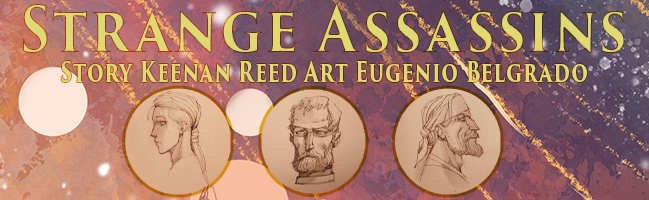
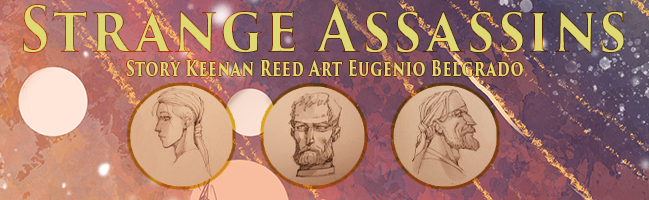
Small styling adjustments.

Changed region(s): [[0.0924, 0.3, 0.9245, 0.99]]

diff --git a/src/style/Banner.scss b/src/style/Banner.scss
@@ -5,5 +5,18 @@
   height: 200px;
   width: 649px;
   box-sizing: border-box;
-  border: 3px solid rgb(255, 136, 0);
+  border: 3px solid rgb(230, 213, 64, .5);
+  border-radius: 7px;
+}
+
+.BGIBig {
+  
+  margin-top: 10px;
+  align-items: center;
+  background-image: url("../../public/Images/Banner.jpg");
+  height: 200px;
+  width: 749px;
+  box-sizing: border-box;
+  border: 3px solid rgb(230, 213, 64);
+
 }

diff --git a/src/style/ComicPages.scss b/src/style/ComicPages.scss
@@ -1,6 +1,8 @@
 .ComicPages {
   width: 599px;
+  border-radius: 7px;
 }
 .ComicPagesLarge {
   width: 749px;
+  border-radius: 7px;
 }
